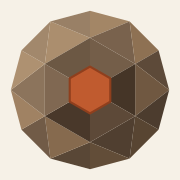
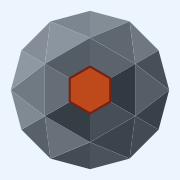
feat(design): redesign web ui

diff --git a/client/src/styles/theme.css b/client/src/styles/theme.css
@@ -1,23 +1,33 @@
 /*
- * Theme palettes. Two semantic variable sets from the design directions:
- * light = "A · Foundry" (warm light), dark = "C · Lamp" (warm dark). The toggle
+ * Theme palettes. Two semantic variable sets:
+ * light = "Cold iron, one spark" (cool steel ground, iron-warm accents; see
+ * design_handoff_palette_system/), dark = "C · Lamp" (warm dark). The toggle
  * swaps `data-theme` on <html>; nothing else needs to know which theme is active.
  * Fonts are held constant across the pair (Hanken Grotesk / JetBrains Mono) so
  * only color flips — the two directions' own font pairings are not carried over.
  */
 
 :root {
-  /* light — A · Foundry (docs reading view) */
-  --bg: oklch(0.982 0.008 80);
-  --surface: oklch(0.967 0.012 78);
-  --sunken: oklch(0.945 0.014 76);
-  --border: oklch(0.885 0.014 76);
-  --ink: oklch(0.27 0.02 55);
-  --muted: oklch(0.5 0.022 55);
-  --faint: oklch(0.64 0.02 60);
-  --accent: oklch(0.575 0.13 45);
-  --accent2: oklch(0.7 0.1 78);
-  --link: oklch(0.5 0.12 250);
+  /* light — "Cold iron, one spark" (design_handoff_palette_system): a cool
+     steel-paper ground so warmth reads only in the iron accents. Rust is the
+     workhorse accent (links, buttons, focus); --raised is the light-rust wash
+     that stands in for white on inputs; --spark is a spot color with one job
+     at a time — never let it become common. */
+  --bg: oklch(0.965 0.014 247);
+  --surface: oklch(0.945 0.014 247);
+  /* In this theme "sunken" panels (code, the signature block) *lighten* off the
+     ground instead of darkening — steel paper catching the light rather than an
+     overcast recess. The name keeps its role, not its direction. */
+  --sunken: oklch(0.982 0.01 247);
+  --border: oklch(0.868 0.014 247);
+  --ink: oklch(0.19 0.022 32);
+  --muted: oklch(0.48 0.02 250);
+  --faint: oklch(0.62 0.018 250);
+  --accent: oklch(0.56 0.16 40);
+  --accent-deep: oklch(0.38 0.12 32);
+  --raised: oklch(0.972 0.011 50);
+  --spark: oklch(0.87 0.18 98);
+  --link: oklch(0.56 0.16 40);
   --kw: oklch(0.5 0.13 35);
   --ty: oklch(0.45 0.09 235);
   --fn: oklch(0.52 0.12 65);
@@ -49,7 +59,9 @@
   --muted: oklch(0.7 0.02 80);
   --faint: oklch(0.55 0.02 75);
   --accent: oklch(0.78 0.12 75);
-  --accent2: oklch(0.72 0.11 45);
+  --accent-deep: oklch(0.72 0.11 45);
+  --raised: oklch(0.26 0.016 65);
+  --spark: oklch(0.8 0.15 95);
   --link: oklch(0.8 0.1 200);
   --kw: oklch(0.8 0.11 70);
   --ty: oklch(0.82 0.08 205);
@@ -97,13 +109,25 @@ a:hover {
   text-decoration: underline;
 }
 
-/* Keyboard focus indicator, themed to the brand accent and applied globally.
-   `:focus-visible` only, so pointer interaction never paints a ring. `outline`
-   (not box-shadow) so the ring survives forced-colors / high-contrast mode, and
-   `outline-offset` lifts it off the element for contrast against any background.
-   Individual controls may redirect it — e.g. the search box carries the ring on
-   its rounded shell rather than its overflow-clipped inner button. */
+/* The spark's one job, everywhere: marking the live thing — the focused
+   control, the selected text, the search result the keyboard is on. It is
+   always user-summoned and there is never more than one on screen, which is
+   what keeps it reading as special. Never yellow glyphs: the spark is always
+   the ground under ink, highlighter-style, so contrast never depends on it. */
+::selection {
+  background: var(--spark);
+  color: var(--ink);
+}
+
+/* Keyboard focus indicator: the spark, applied globally. `:focus-visible`
+   only, so pointer interaction never paints a ring. `outline` (not box-shadow)
+   so the ring survives forced-colors / high-contrast mode, and `outline-offset`
+   lifts it off the element for contrast against any background. 3px because
+   yellow needs more mass than a dark accent to hold an edge on the light
+   ground. Individual controls may redirect it — e.g. the search box carries
+   the ring on its rounded shell rather than its overflow-clipped inner
+   button. */
 :focus-visible {
-  outline: 2px solid var(--accent);
+  outline: 3px solid var(--spark);
   outline-offset: 2px;
 }

diff --git a/client/src/styles/layout.css b/client/src/styles/layout.css
@@ -72,7 +72,7 @@
   color: var(--faint);
 }
 .brand-crate {
-  color: var(--ty);
+  color: var(--accent);
   font-weight: 500;
 }
 /* The crate's version, riding just behind its name: smaller and quieter than the
@@ -151,7 +151,10 @@
   display: flex;
   flex-direction: column;
   overflow: hidden;
-  background: var(--surface);
+  /* Neutral in both states: the warmth that says "interactive" lives in the
+     scope chip and the accent border ramp, not the field itself — a warm field
+     that cooled on expansion read as the affordance inverting. */
+  background: var(--bg);
   border: 1px solid var(--border);
   border-radius: 8px;
   box-shadow: 0 1px 2px color-mix(in oklch, var(--ink) 8%, transparent);
@@ -169,8 +172,12 @@
   width: var(--search-w-open);
   height: var(--search-h-open);
   background: var(--bg);
-  border-color: color-mix(in oklch, var(--accent) 55%, var(--border));
-  box-shadow: 0 24px 70px -12px color-mix(in oklch, var(--ink) 35%, transparent);
+  /* The open box holds focus for as long as it exists, so it wears the same
+     match-strike as the landing field: rust border, spark halo. */
+  border-color: var(--accent);
+  box-shadow:
+    0 0 0 3px var(--spark),
+    0 24px 70px -12px color-mix(in oklch, var(--ink) 35%, transparent);
 }
 /* Focus returns to the resting trigger when the panel closes. The trigger fills
    a box with `overflow: hidden`, which would clip an outline drawn on the button
@@ -182,7 +189,7 @@
   outline: none;
 }
 .search-box:has(.search-trigger:focus-visible) {
-  outline: 2px solid var(--accent);
+  outline: 3px solid var(--spark);
   outline-offset: 2px;
 }
 /* The panel's contents cross-fade in rather than sliding, so the box's growth is
@@ -235,12 +242,13 @@
   border-color: color-mix(in oklch, var(--accent) 50%, var(--border));
   box-shadow: 0 4px 16px -6px color-mix(in oklch, var(--ink) 24%, transparent);
 }
-/* Focused: the accent border goes full-strength and the glow ring appears — the
-   one place it does — so the jump from resting to focused is unmistakable. */
+/* Focused: the rust border goes full-strength and the spark ring appears —
+   the match strikes. The field autofocuses on arrival (fine pointers), so this
+   is also the landing page's greeting: the one lit thing on a cool page. */
 .search-slot.inline .search-box[data-focused] {
   border-color: var(--accent);
   box-shadow:
-    0 0 0 4px color-mix(in oklch, var(--accent) 22%, transparent),
+    0 0 0 3px var(--spark),
     0 18px 50px -20px color-mix(in oklch, var(--ink) 32%, transparent);
 }
 /* The icon is the field's one piece of colour at rest — it reads as "act here"
@@ -313,7 +321,9 @@
   font-family: var(--mono);
   font-size: 0.75rem;
   color: var(--accent);
-  background: color-mix(in oklch, var(--accent) 8%, transparent);
+  /* The light-rust surface from the palette: the chip is the warm element that
+     marks the neutral field as interactive. */
+  background: var(--raised);
   border: 1px solid color-mix(in oklch, var(--accent) 45%, transparent);
   border-radius: 6px;
   white-space: nowrap;
@@ -435,8 +445,15 @@
   text-align: left;
   cursor: pointer;
 }
+/* The live result is the page's one highlighted line — the same spark that
+   marks focus and selection, moved onto whichever row the keyboard is on. */
 .search-result.selected {
-  background: var(--surface);
+  background: var(--spark);
+}
+.search-result.selected .search-path,
+.search-result.selected .search-version,
+.search-result.selected .search-kind {
+  color: var(--ink);
 }
 .search-kind {
   font-family: var(--mono);
@@ -844,7 +861,7 @@
 .home-cycle-type {
   font-family: var(--mono);
   font-size: 1.05rem;
-  color: var(--ty);
+  color: var(--accent);
   text-decoration: none;
   transition: opacity 650ms ease;
 }

diff --git a/client/index.html b/client/index.html
@@ -20,7 +20,7 @@
     <link rel="manifest" href="/site.webmanifest" />
     <meta
       name="theme-color"
-      content="#f6f1e7"
+      content="#e6eef6"
       media="(prefers-color-scheme: light)"
     />
     <meta

diff --git a/ferritin/src/serve/og.rs b/ferritin/src/serve/og.rs
@@ -54,12 +54,13 @@ pub(super) const PREFIX: &str = "/~og";
 pub(super) const WIDTH: u32 = 1200;
 pub(super) const HEIGHT: u32 = 630;
 
-/// The light ("Foundry") palette, converted from the oklch values in
-/// `client/src/styles/theme.css` — the card should read as a crop of the site.
-const BG: &str = "#fcf9f3"; // --bg
-const INK: &str = "#2e241d"; // --ink
-const MUTED: &str = "#6e6058"; // --muted
-const ACCENT: &str = "#b65c30"; // --accent
+/// The light ("cold iron, one spark") palette, converted from the oklch values
+/// in `client/src/styles/theme.css` — the card should read as a crop of the
+/// site.
+const BG: &str = "#ecf5fd"; // --bg
+const INK: &str = "#1d100e"; // --ink
+const MUTED: &str = "#555f69"; // --muted
+const ACCENT: &str = "#be4a1b"; // --accent
 
 /// JetBrains Mono's advance width, both weights: 600/1000 units. This constant
 /// is what makes layout arithmetic instead of font shaping.
